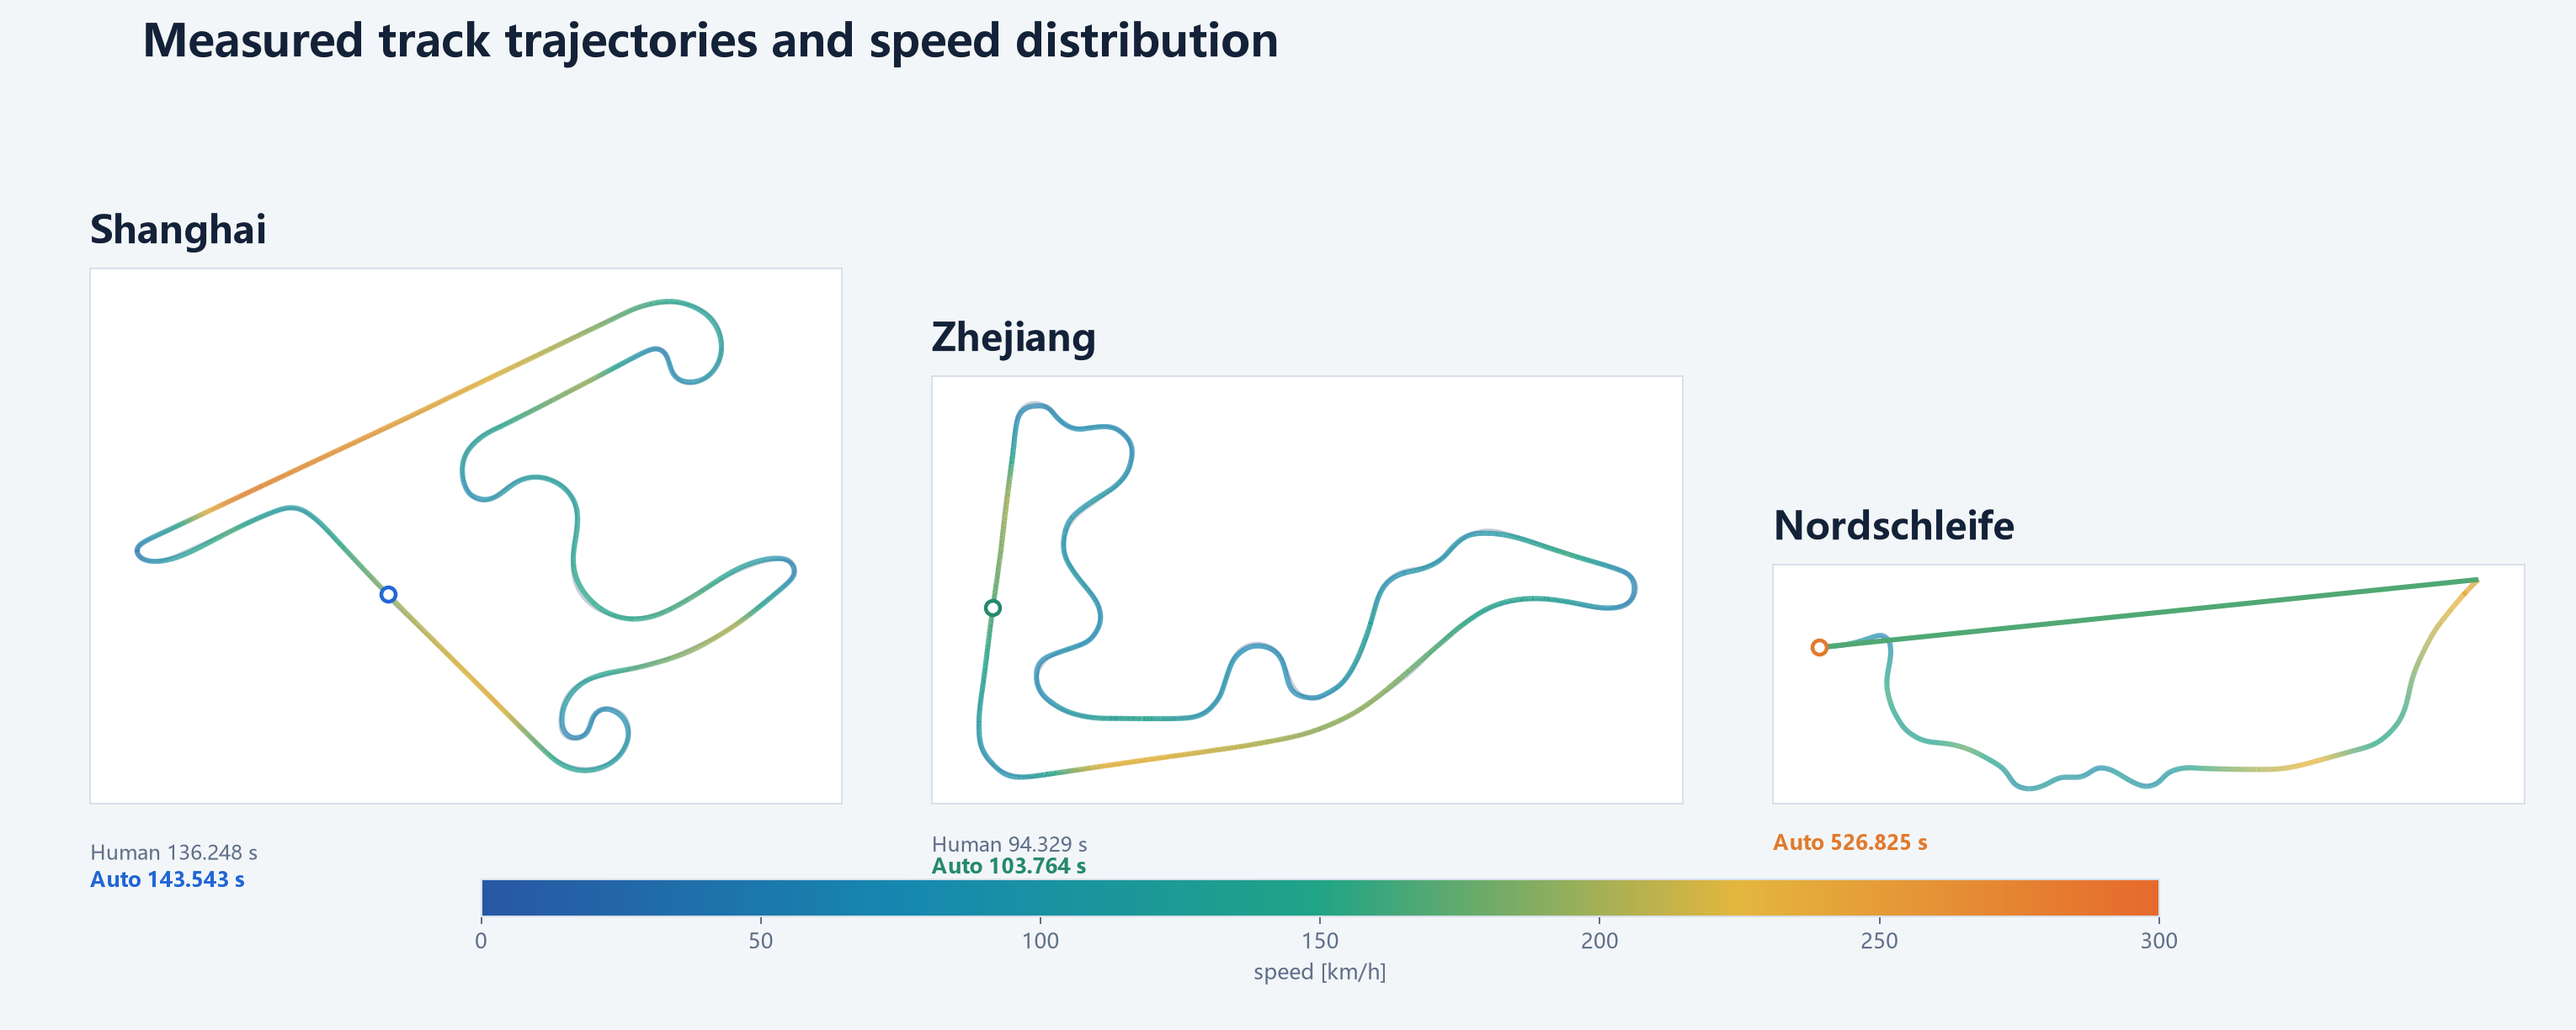
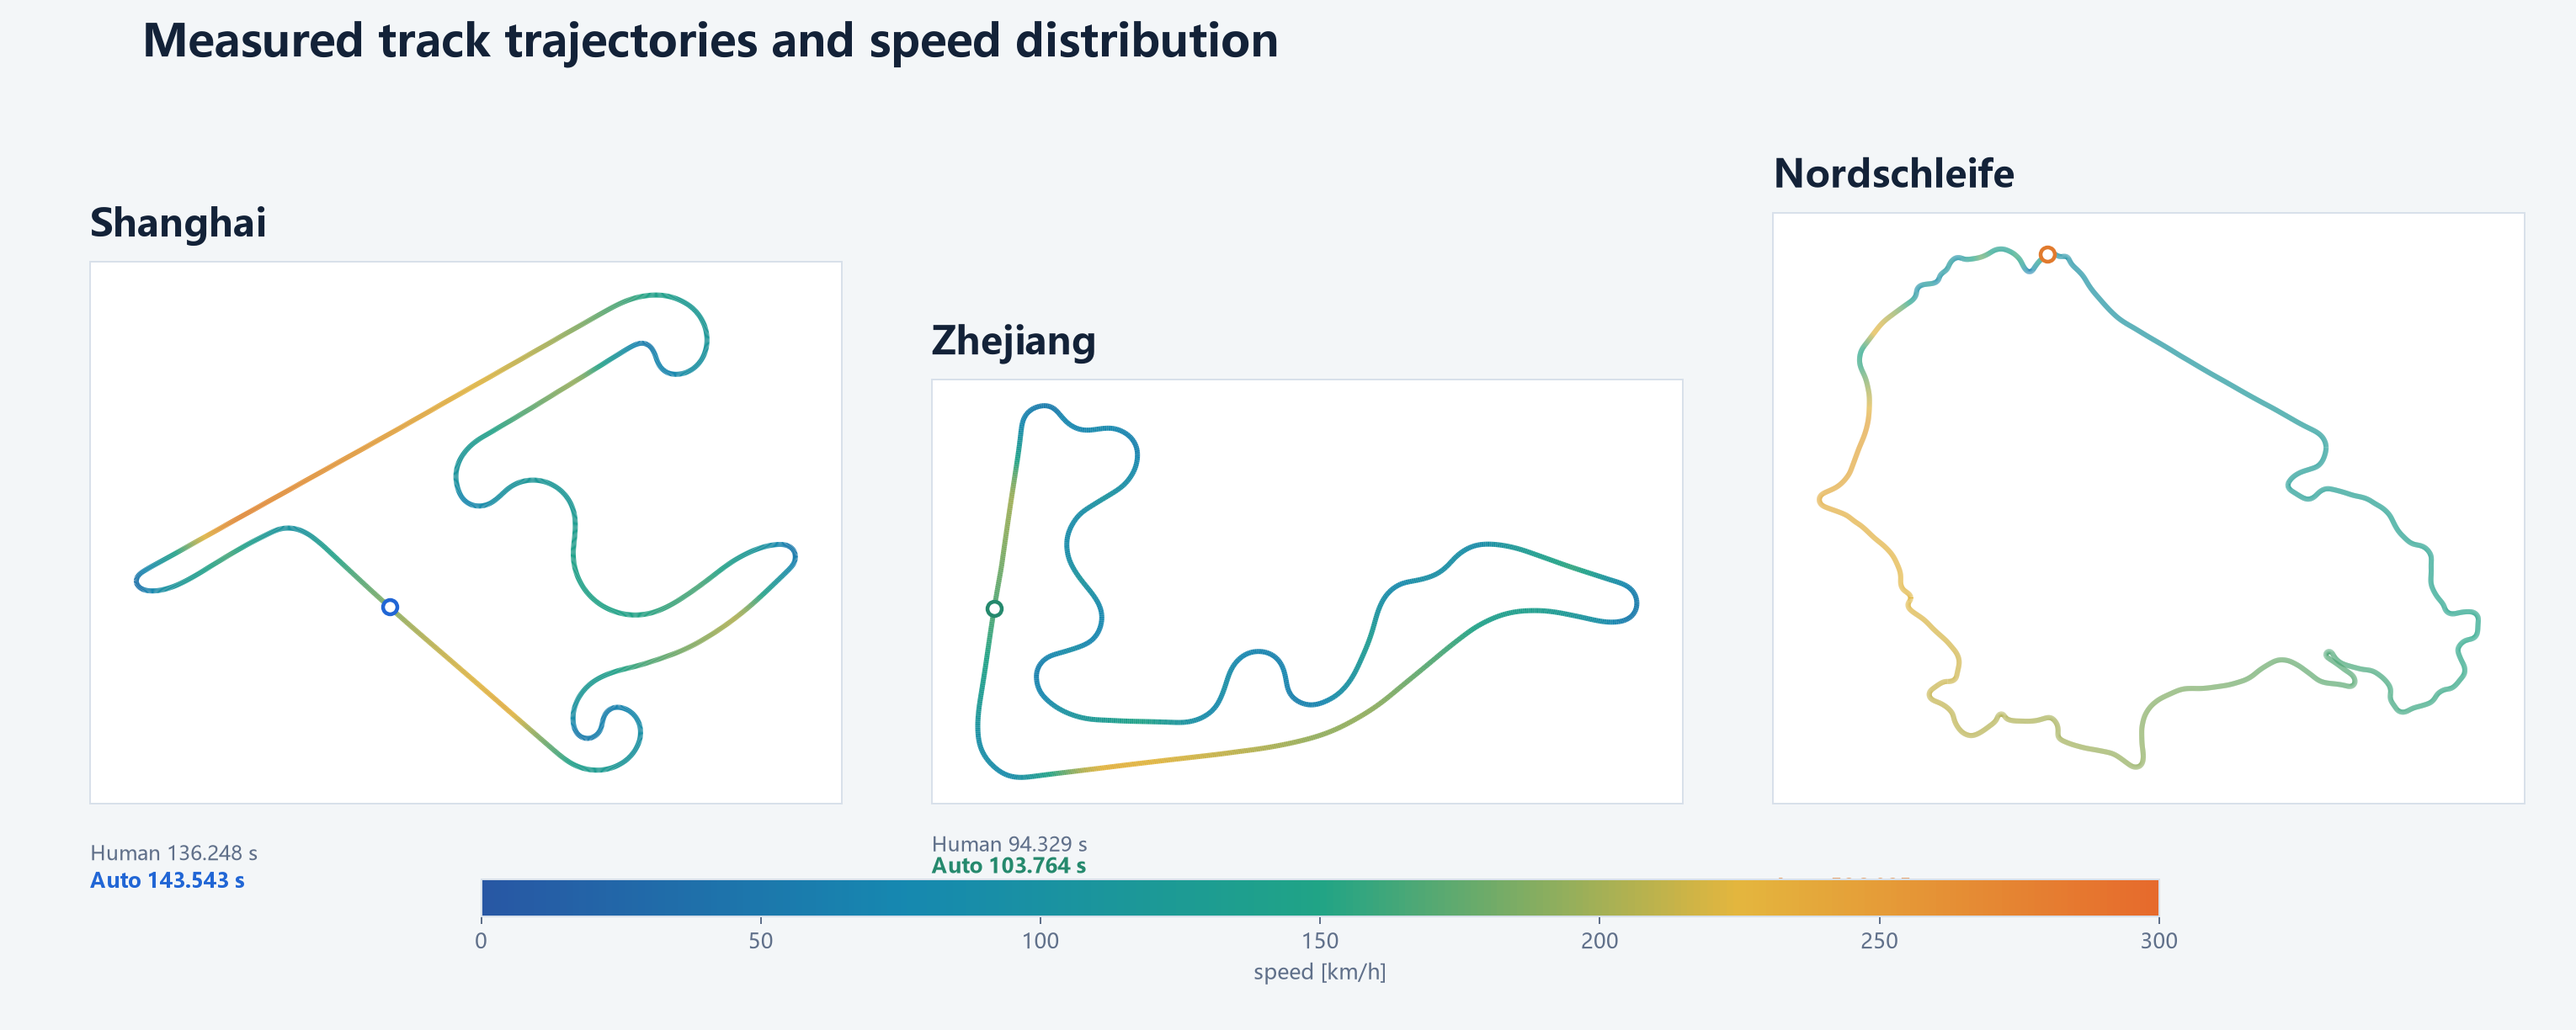
Fix Nordschleife trajectory visualization

diff --git a/tools/build_visual_report.py b/tools/build_visual_report.py
@@ -11,6 +11,7 @@ from matplotlib.collections import LineCollection
 from matplotlib.colors import LinearSegmentedColormap, Normalize
 from matplotlib.patches import Circle, FancyArrowPatch, FancyBboxPatch
 
+from actc.track import TrackPath, resolve_fast_lane
 from tools.build_comparison_figures import (
     find_auto_fastest_lap,
     find_manual_fastest_lap,
@@ -159,9 +160,18 @@ def _draw_speed_track(
     norm: Normalize,
     linewidth: float = 2.5,
     alpha: float = 1.0,
+    close: bool = False,
 ) -> LineCollection:
-    closed_points = np.vstack([points, points[0]])
-    closed_speed = np.concatenate([speed_kmh, speed_kmh[:1]])
+    closed_points = (
+        np.vstack([points, points[0]])
+        if close
+        else points
+    )
+    closed_speed = (
+        np.concatenate([speed_kmh, speed_kmh[:1]])
+        if close
+        else speed_kmh
+    )
     segments = np.stack(
         [closed_points[:-1], closed_points[1:]],
         axis=1,
@@ -180,12 +190,57 @@ def _draw_speed_track(
     return collection
 
 
+def _load_track_path(track_name: str, configuration: str = "") -> TrackPath:
+    fast_lane = resolve_fast_lane(track_name, configuration)
+    return TrackPath.load(
+        fast_lane,
+        centerline=True,
+        preserve_fast_lane=True,
+        max_speed_kmh=300.0,
+        min_speed_kmh=25.0,
+        lateral_accel_mps2=6.867,
+        accel_mps2=3.924,
+        brake_mps2=14.0,
+    ).resampled(2.0)
+
+
+def _speed_on_path(
+    frame: pd.DataFrame,
+    path: TrackPath,
+) -> np.ndarray:
+    count = len(path.points)
+    indices = np.rint(
+        frame["normalized_position"].to_numpy(dtype=float) * count
+    ).astype(int) % count
+    values = frame["speed_kmh"].to_numpy(dtype=float)
+    grouped = pd.Series(values).groupby(indices).median()
+    speed = np.full(count, np.nan, dtype=float)
+    speed[grouped.index.to_numpy(dtype=int)] = grouped.to_numpy(dtype=float)
+    missing = ~np.isfinite(speed)
+    if np.any(missing):
+        known = np.flatnonzero(~missing)
+        if known.size < 2:
+            return np.full(count, float(np.nanmedian(speed)), dtype=float)
+        extended_index = np.concatenate(
+            [known - count, known, known + count]
+        )
+        extended_speed = np.concatenate(
+            [speed[known], speed[known], speed[known]]
+        )
+        speed = np.interp(
+            np.arange(count, dtype=float),
+            extended_index,
+            extended_speed,
+        )
+    return speed
+
+
 def build_hero() -> None:
-    path = PROJECT_ROOT / "logs" / "lmpc_nordschleife_v2_safe.csv"
-    _, lap = _load_fastest_lap(path, automatic=True)
-    center, basis = _map_transform([lap])
-    points = _transform_points(lap, center, basis)
-    speed = lap["speed_kmh"].to_numpy(dtype=float)
+    log_path = PROJECT_ROOT / "logs" / "lmpc_nordschleife_v2_safe.csv"
+    _, lap = _load_fastest_lap(log_path, automatic=True)
+    track_path = _load_track_path("ks_nordschleife", "nordschleife")
+    points = np.asarray(track_path.points, dtype=float)
+    speed = _speed_on_path(lap, track_path)
     points = points / 1000.0
 
     fig, ax = plt.subplots(figsize=(16, 7.4), facecolor=COLORS["navy"])
@@ -307,6 +362,7 @@ def build_hero() -> None:
         speed,
         norm=norm,
         linewidth=4.0,
+        close=True,
     )
     map_ax.scatter(
         [map_points[0, 0]],
@@ -348,6 +404,8 @@ def build_track_maps() -> None:
             "human_label": "Human 136.248 s",
             "auto_label": "Auto 143.543 s",
             "color": COLORS["blue"],
+            "track_name": "tr_shanghai",
+            "configuration": "advanced",
         },
         {
             "name": "Zhejiang",
@@ -356,6 +414,8 @@ def build_track_maps() -> None:
             "human_label": "Human 94.329 s",
             "auto_label": "Auto 103.764 s",
             "color": COLORS["green"],
+            "track_name": "st_zhejiang",
+            "configuration": "layout_main",
         },
         {
             "name": "Nordschleife",
@@ -364,6 +424,8 @@ def build_track_maps() -> None:
             "human_label": "",
             "auto_label": "Auto 526.825 s",
             "color": COLORS["orange"],
+            "track_name": "ks_nordschleife",
+            "configuration": "nordschleife",
         },
     ]
 
@@ -382,17 +444,25 @@ def build_track_maps() -> None:
             Path(spec["auto_path"]),
             automatic=True,
         )
-        frames = [auto_lap]
+        track_path = _load_track_path(
+            str(spec["track_name"]),
+            str(spec["configuration"]),
+        )
+        path_points = np.asarray(track_path.points, dtype=float)
+        auto_speed = _speed_on_path(auto_lap, track_path)
+        frames = [pd.DataFrame(path_points, columns=["position_x", "position_z"])]
         human_lap = None
         if spec["human_path"] is not None:
             _, human_lap = _load_fastest_lap(
                 Path(spec["human_path"]),
                 automatic=False,
             )
-            frames.append(human_lap)
-        center, basis = _map_transform(frames)
-        auto_points = _transform_points(auto_lap, center, basis)
-        auto_speed = auto_lap["speed_kmh"].to_numpy(dtype=float)
+        if spec["name"] == "Nordschleife":
+            center = np.zeros(2, dtype=float)
+            basis = np.eye(2, dtype=float)
+        else:
+            center, basis = _map_transform(frames)
+        auto_points = (path_points - center) @ basis
 
         ax.set_facecolor(COLORS["white"])
         for spine in ax.spines.values():
@@ -402,11 +472,9 @@ def build_track_maps() -> None:
 
         all_points = [auto_points]
         if human_lap is not None:
-            human_points = _transform_points(human_lap, center, basis)
-            all_points.append(human_points)
             ax.plot(
-                human_points[:, 0],
-                human_points[:, 1],
+                auto_points[:, 0],
+                auto_points[:, 1],
                 color="#BCC6D4",
                 linewidth=1.35,
                 alpha=0.85,
@@ -428,6 +496,7 @@ def build_track_maps() -> None:
             auto_speed,
             norm=norm,
             linewidth=2.4,
+            close=True,
         )
         ax.scatter(
             [auto_points[0, 0]],

diff --git a/docs/FIGURES.md b/docs/FIGURES.md
@@ -28,9 +28,10 @@ layer can be replaced independently.
 
 ![Track trajectories](../assets/figures/track_maps.png)
 
-Human reference traces are shown in grey. Automatic traces are colored by
-speed. The automatic comparison uses the verified V63 Shanghai lap and V59
-Zhejiang lap.
+The trajectory uses the complete `fast_lane.ai` geometry for each track.
+Automatic speed is colored along the path. Human lap times remain the
+reference labels; the detailed human-versus-auto speed traces appear in the
+comparison figures below.
 
 ## Performance dashboard
 
